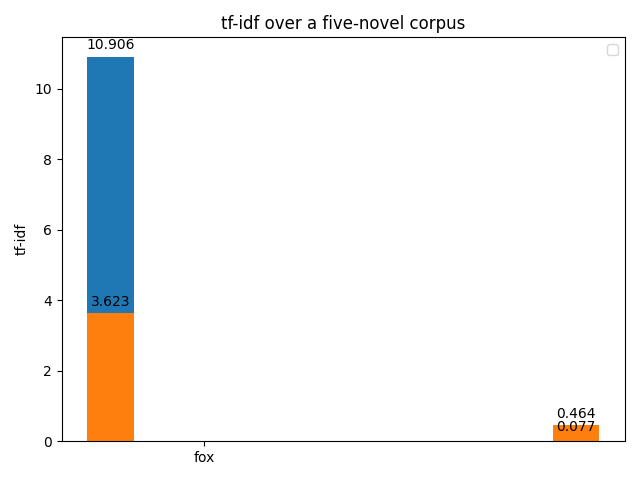
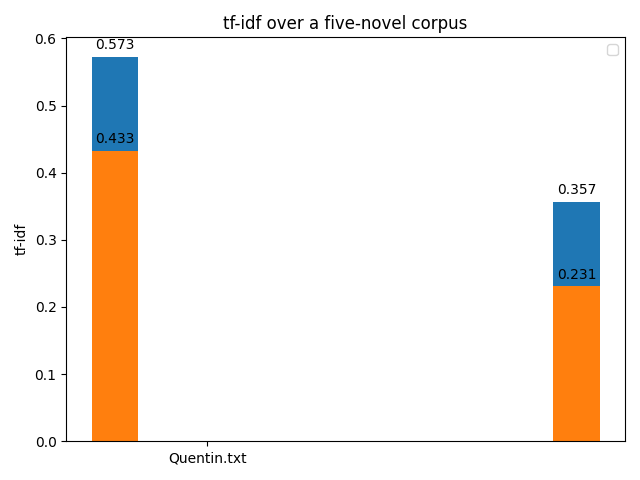
changed tf-idf dict ordering

diff --git a/flaskr/templates/multi-comp.html b/flaskr/templates/multi-comp.html
@@ -63,7 +63,7 @@
         <div class="form-check">
           <input class="form-check-input" type="checkbox" name="WordProg" id="wordProgBox">
           <label for="wordProgBox" class="form-check-label" data-bs-toggle="tooltip" data-bs-placement="right" data-bs-html="true" title="Plots frequency of given group(s) of words over the course of the novel."">Word Progression</label>
-          <input type="text" class="form-control" name="WordProgWords" id="WordProgWords" placeholder="Enter words for WP" data-bs-trigger="focus" data-bs-container="body" data-bs-toggle="popover" data-bs-placement="right" title="How to use:" data-bs-content="Track multiple words in the same theme by seperating them with commas. Seperate themes (or unrelated words) with semicolons. Ex: theme1Word, theme1Word; theme2. NOTE: input words are stemmed into root form" autocomplete="off">
+          <input type="text" class="form-control" name="WordProgWords" id="WordProgWords" placeholder="Enter words for WP" data-bs-trigger="focus" data-bs-container="body" data-bs-toggle="popover" data-bs-placement="right" title="How to use:" data-bs-content="Track multiple words in the same theme by separating them with commas. Separate themes (or unrelated words) with semicolons. Ex: theme1Word, theme1Word; theme2. NOTE: input words are stemmed into root form" autocomplete="off">
         </div>
 
         <!-- Term frequency-inverse document frequency <br> <br>
@@ -71,7 +71,7 @@
         <div class="form-check">
           <input class="form-check-input" type="checkbox" name="tfidf" id="TfIdfBox">
           <label for="TfIdfBox" class="form-check-label" data-bs-toggle="tooltip" data-bs-placement="right" data-bs-html="true" title="Provides a measure for how important a word is to a certain text in a corpus.">Word Relevance (using TF-IDF)</label>
-          <input type="text" class="form-control" name="TfIdfWords" id="TfIdfWords" placeholder="Enter words for tf-idf (seperated with commas)." autocomplete="off">
+          <input type="text" class="form-control" name="TfIdfWords" id="TfIdfWords" placeholder="Enter words for tf-idf (separated with commas)." autocomplete="off">
         </div>
         <!-- TfIdfWords box id and name -->
 

diff --git a/flaskr/blueprints/multifile.py b/flaskr/blueprints/multifile.py
@@ -136,20 +136,19 @@ def multiReport():
             wordsNoSpaces.append(currWord.replace(" ", ""))
 
         tfIdfResults = {}
-        for i in range(len(session['files'])):
-            currFile = session['files'][i]
-            print("FINDING TF-IDF FOR: " + currFile)
+        for word in wordsNoSpaces:
             currScores = []
-            for word in wordsNoSpaces:
-                result = tfidf(word, simpleTokenize('flaskr/uploads/' + currFile), corpus)
+            for i in range(len(session['files'])):
+                result = tfidf(word, simpleTokenize('flaskr/uploads/' + session['files'][i]), corpus)
                 currScores.append(result)
                 print("tf-idf score for " + word + ": " + str(result))
-            tfIdfResults[currFile] = currScores
+            tfIdfResults[word] = currScores
+        print(session['files'])
 
-            textRsts[i].tfidf = tfIdfResults #currScores
-            textRsts[i].tfidf_words = wordsToBeTfIDFed
+        textRsts[i].tfidf = tfIdfResults #currScores
+        textRsts[i].books = session['files']
 
-        createTfidfGraph(tfIdfResults, wordsToBeTfIDFed)
+        createTfidfGraph(tfIdfResults, textRsts[i].books)
 
         # textRsts[i].tfIdf = tfIdfResults #same index for valeus as words to be IDFed
     # Part of speech data

diff --git a/flaskr/tools/simple_analytics.py b/flaskr/tools/simple_analytics.py
@@ -752,11 +752,33 @@ def createTfidfGraph(data, words):
     ax.set_xticks(x)
     ax.set_xticklabels(labels)
     ax.legend()
-
+#mpatches?
     for key,val in data.items():
         rects1 = ax.bar(x - 2*width, val, width, label=key)
         ax.bar_label(rects1, padding=3)
 
     fig.tight_layout()
-
+    plt.show()
     plt.savefig("demo.png")
+
+"""
+    y = []
+    x = list(range(int(len(text) / numWordsPerSection) + 1))
+    print("x", x)
+    print("wordlists", wordlists)
+    #print("text", text)
+    for i in range(len(wordlists)):
+        #print (i)
+        y.append(wordProgression(txtToLower(text), wordlists[i]))
+        #print (y)
+        #plt.title("Word Group Progressions through Novel")
+        plt.ylabel("Num occurances per 100 words")
+        plt.xlabel("Progression of novel (by every 100 words)")
+        lbl = str(wordlists[i][0])
+        for j in range(1, len(wordlists[i])):
+            lbl += ", " + str(wordlists[i][j])
+        plt.bar(x, y[i], label=lbl)
+        plt.legend()
+    plt.savefig('flaskr/static/graphs/' + title + '.png')
+    plt.close()
+"""
